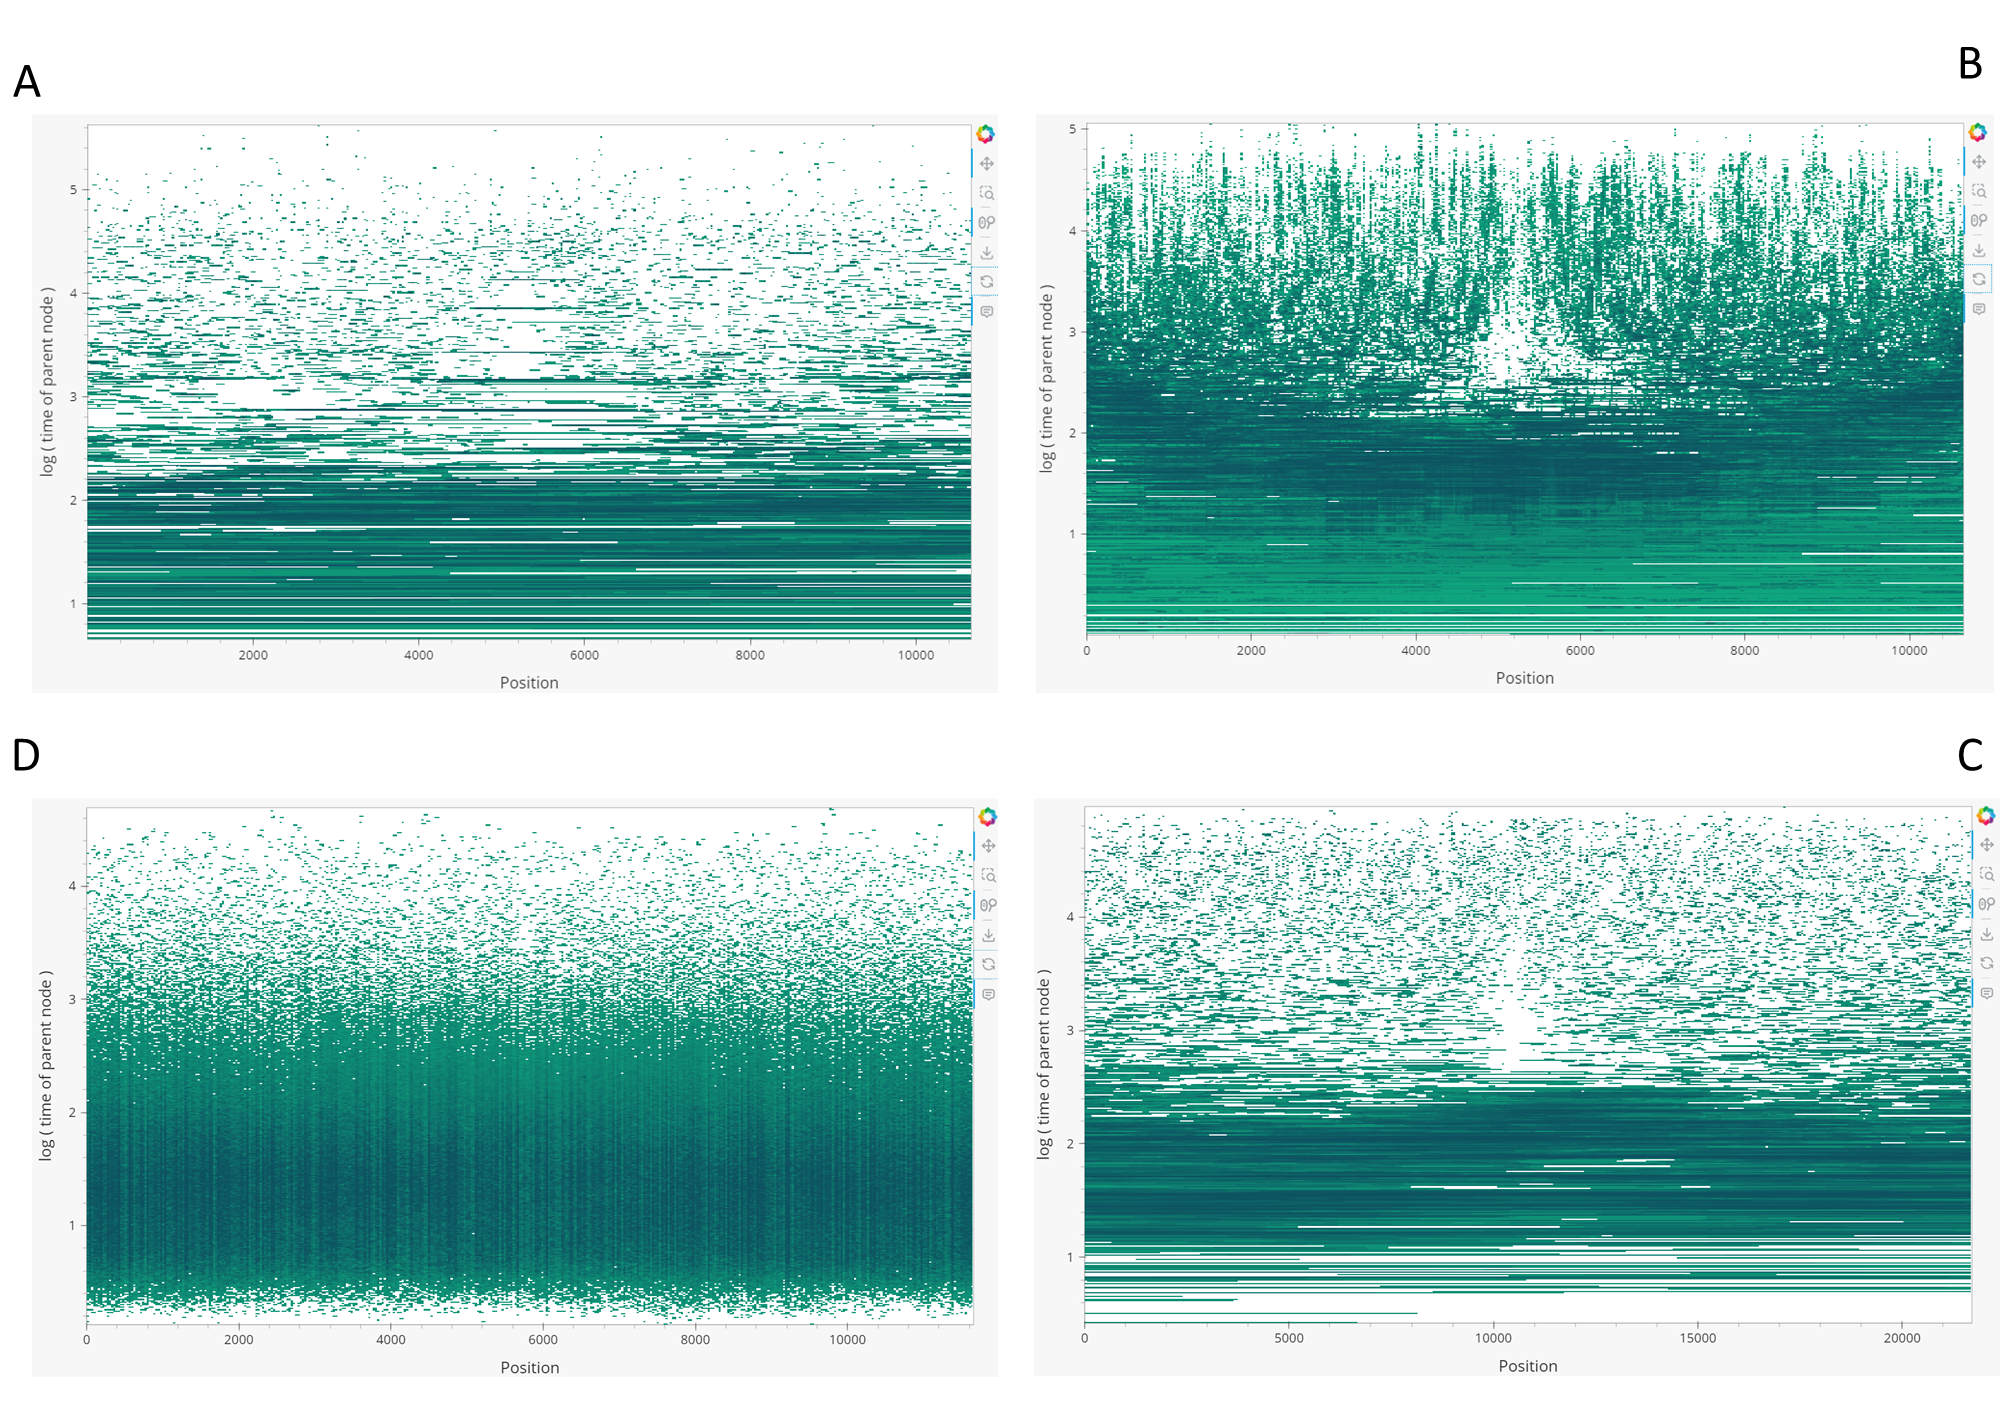
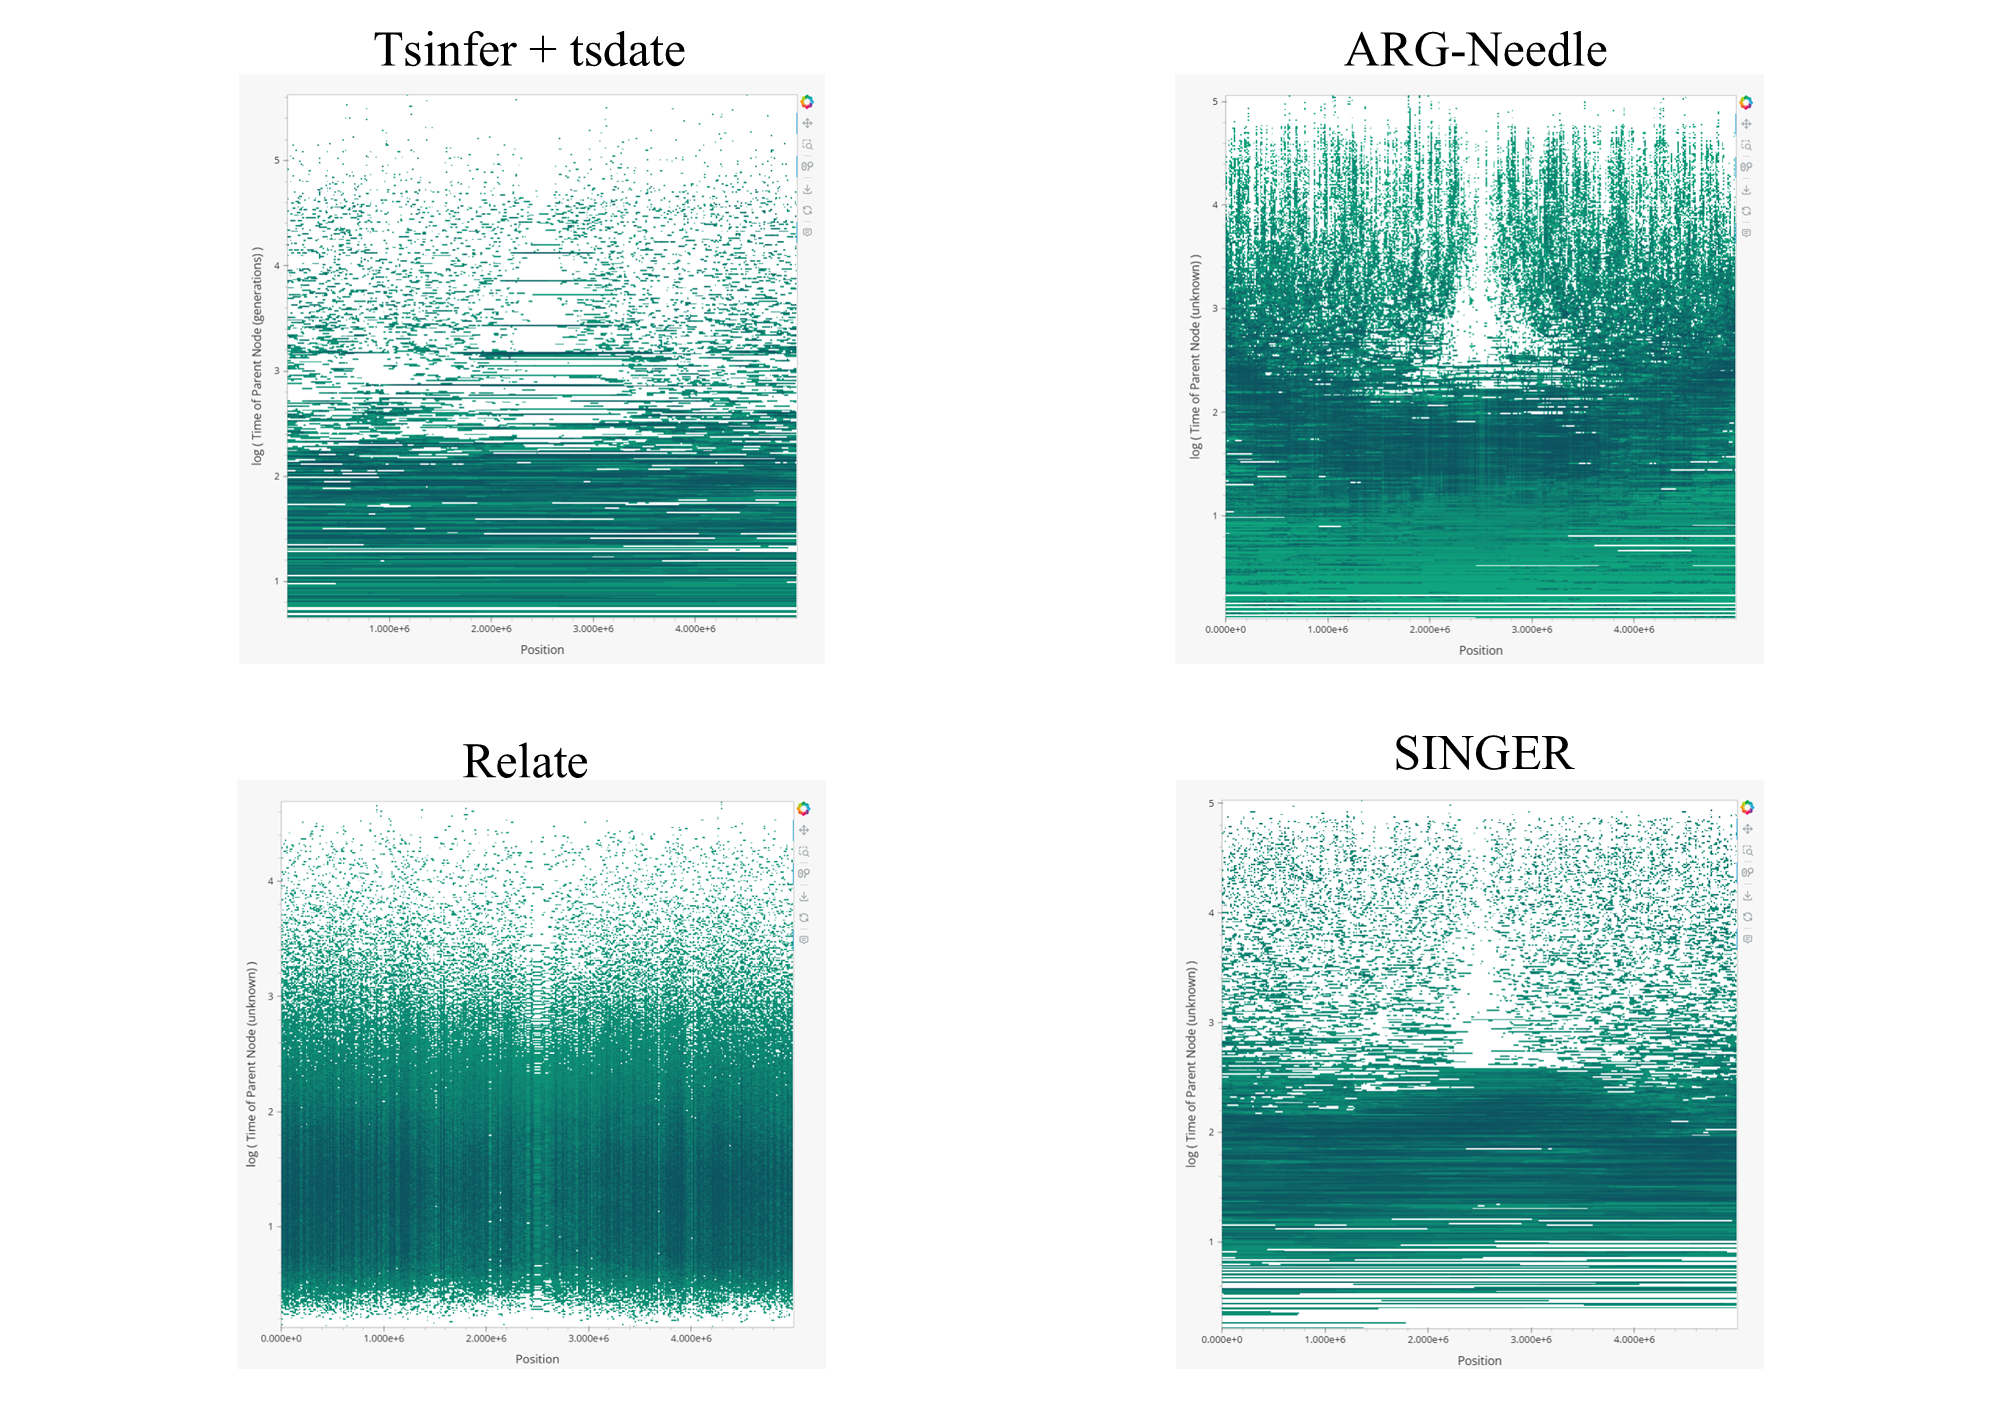
fixed labels for main figure 2 fixed figure caption fixed typo in sweep simulation
Closes #6

diff --git a/manuscript/paper.tex b/manuscript/paper.tex
@@ -513,7 +513,7 @@ population was set at 0.0001 at the beginning of the sweep. The allele fixed in
 the population at a frequency of 0.9999. The strength of selection was set
 using the selection coefficient, \textit{s = 0.25}. A time increment,
 \textit{dt = 1e-6} was used to step through the sweep. Mutations were added to
-the ARG at a rate of 1e-6. For simulating history before occurrence of the
+the ARG at a rate of 1e-8 per base pair per generation. A recombination rate of 1e-8 per base pair per generation. For simulating history before occurrence of the
 sweep, a standard coalescent model (Hudson's algorithm \citep{Hudson1983}) was
 used until coalescence was achieved.
 
@@ -596,8 +596,8 @@ accompanying repository:
     \centering
     \includegraphics[width=0.95\linewidth]{figures/SuppFig1.png}
     \caption{\textbf{\texttt{tsbrowse} applied to inference methods}
-    A screenshot of \texttt{tsbrowse}'s Edges view for tsinfer+tsdate (A),
-ARG-Needle (B), Relate (C) and SINGER (D) inferences of the truth dataset
+    A screenshot of \texttt{tsbrowse}'s Edges view for tsinfer+tsdate,
+ARG-Needle, Relate and SINGER inferences of the truth dataset
 simulated under a selective sweep model (in Figure 2 of the main text). For
 SINGER, an examplar ARG from the set of output posterior ARG samples is shown.
 The X coordinate represents genomic position, each horizontal segment on the
